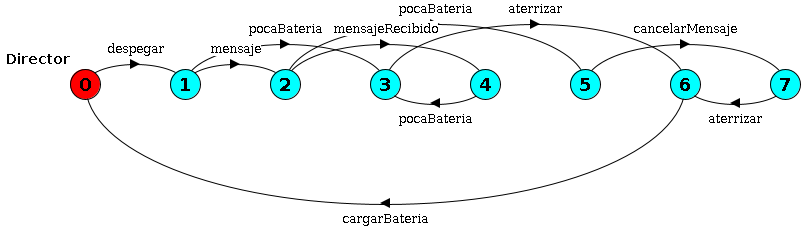
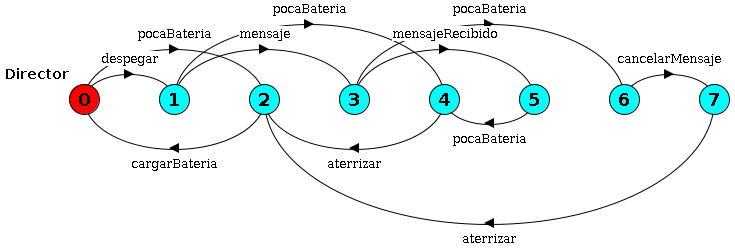
cambio de ej y avances

diff --git a/defensa/background.tex b/defensa/background.tex
@@ -4,21 +4,6 @@
 % vemos en particular problemas non-blocking (i.e. loop para ganadores, no-controlables no joden)
 % estados ganadores y perdedores (estados desde donde hay una estrategia==controlador ganadora/perdedora)
 %-------------------------------------------------------
-\begin{frame}{Problema de control non-blocking}
-    \begin{block}{¿Cuál es la entrada de un problema de control?}
-        \begin{itemize}
-          \item conjunto de autómatas (la composición de ellos es la planta completa que no queremos calcular)
-          \item acciones controlables y no controlables
-          \item estados marcados u objetivos (se quiere tener la \textit{posibilidad} de visitar infinitas veces \textit{al menos uno})
-        \end{itemize}
-    \end{block}
-
-    \begin{block}{¿Qué devuelve?}
-        Una estrategia ganadora (llamada controlador) o afirmación de que no existe.
-    \end{block}
-
-\end{frame}
-%-------------------------------------------------------
 \begin{frame}{Acciones, pasos y corridas (run)}
     \begin{figure}
         \begin{overprint}
@@ -38,16 +23,46 @@
     
 \end{frame}
 %-------------------------------------------------------
+\begin{frame}{Problema de control non-blocking}
+    \begin{block}{¿Cuál es la entrada de un problema de control?}
+        \begin{itemize}
+          \item conjunto de autómatas (la composición de ellos es la planta completa que no queremos calcular)
+          \item acciones controlables y no controlables
+          \item estados marcados u objetivos (se quiere tener la \textit{posibilidad} de visitar infinitas veces \textit{al menos uno})
+        \end{itemize}
+    \end{block}
+
+    \begin{block}{¿Qué devuelve?}
+        Una estrategia ganadora (llamada controlador) o afirmación de que no existe.
+    \end{block}
+
+\end{frame}
+%-------------------------------------------------------
+\begin{frame}{En nuestro ejemplo}
+    \begin{description}
+     \item[Conjunto de autómatas] Avión, Batería.
+     \item[Acciones controlables] despegar, aterrizar, mensaje, cargarBateria, cancelarMensaje.
+     \item[Acciones no-controlables] mensajeRecibido, pocaBateria.
+     \item[Objetivo] Enviar \textit{mensaje}.
+    \end{description}
+    
+    \textbf{Planta} (composición de todos los autómatas)
+    \begin{figure}
+     \includegraphics[width=\textwidth]{figures/planta.png}
+    \end{figure}
+    
+\end{frame}
+%-------------------------------------------------------
 \begin{frame}{Controlador}
     \begin{figure}
      \includegraphics[width=\textwidth]{figures/director.png}
     \end{figure}
 
-    Es una restricción de la planta (la composición de todos los autómatas) que cumple las reglas:
+    Es una restricción de la planta que cumple las reglas:
 
     \begin{itemize}
      \item Puede prohibir pasos controlables.
-     \item Debe mantener todos los no-controlables.
+     \item Mantiene todas las acciones no-controlables.
      \item Todas las corridas posibles en la planta restringida pasan por algún estado marcado.
     \end{itemize}
 \end{frame}

diff --git a/defensa/intro.tex b/defensa/intro.tex
@@ -33,17 +33,21 @@
 %-------------------------------------------------------
 \begin{frame}{Autómatas} 
     \begin{figure}
-     \includegraphics[width=0.55\textwidth]{figures/bateria.png}
+     \includegraphics[width=\textwidth]{figures/avion.png}
     \end{figure}
 
-
-    detalles de los autómatas finitos (estado inicial, marcados (ver si va), etc)
+    \begin{itemize}
+     \item Estados finitos, en este caso del 0 al 3 (4 estados).
+     \item Estado inicial, en los ejemplos siempre será el 0.
+     \item Acciones o eventos, en el ejemplo: despegar, aterrizar, cargarBateria, mensaje, mensajeRecibido, cancelarMensaje.
+    \end{itemize}
+    
 \end{frame}
 %-------------------------------------------------------
 \begin{frame}{Componentes}
     \begin{figure}
-     \includegraphics[width=0.95\textwidth]{figures/avion.png}
-     \includegraphics[width=0.55\textwidth]{figures/bateria.png}
+     \includegraphics[width=\textwidth]{figures/avion.png}
+     \includegraphics[width=0.6\textwidth]{figures/bateria.png}
     \end{figure}
 \end{frame}
 %-------------------------------------------------------
@@ -51,15 +55,13 @@
     \begin{figure}
      \includegraphics[width=\textwidth]{figures/planta.png}
     \end{figure}
-
-    ejemplo simple para explicar composición (mostrar planta completa)
-    explicar por arriba cómo se compone o cuál es la idea (la planta refleja el comportamiento del todo) (reglas para sincronización entre las partes)
+    En nuestro caso el autómata \textit{Batería} contiene la información de cómo actuar (qué acciones se pueden hacer) en caso de tener poca batería.\\ 
+    Al componer con el autómata \textit{Avión} se restringen las acciones pero también hay un aumento de estados; ya que no es lo mismo estar en el aire con poca batería o completa.
+%     explicar por arriba cómo se compone o cuál es la idea (la planta refleja el comportamiento del todo) (reglas para sincronización entre las partes) NO QUEDARA MUY TECNICO ESTO?
 \end{frame}
 %-------------------------------------------------------
 \begin{frame}{Explosión de estados}
-    La composición explota, es prohibitiva para algoritmos monolíticos (los que analizan la planta completa).
-    
-    Así queda el muy simple ejemplo anterior si la batería tiene un contador de carga:
+    La composición muchas veces explota en tamaño y termina siendo prohibitiva para algoritmos monolíticos (los que analizan la planta completa). Así queda el muy simple ejemplo anterior si la batería tiene un contador de carga:
     \begin{figure}
     	\includegraphics[width=\textwidth]{figures/big-plant.png}
     \end{figure}
